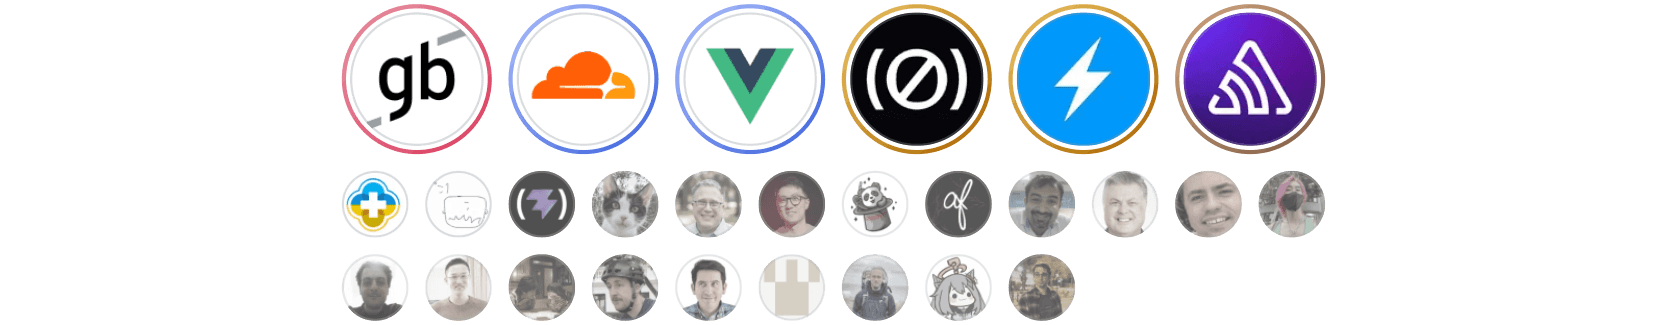
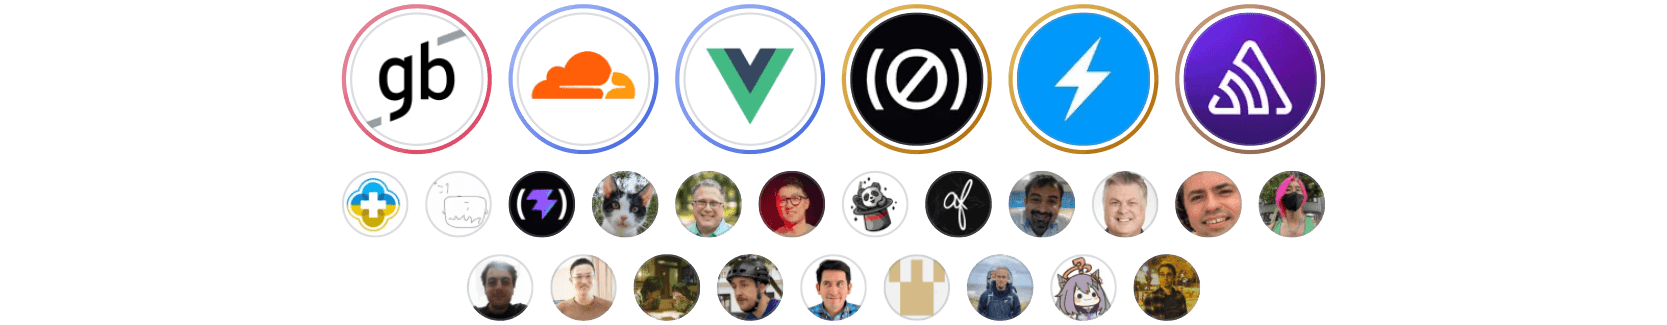
feat: split rows by tile size and centre them
Change how the sponsor grid flows into rows:

- a change of tile size always starts a new row, so big and small
  tiles never share one
- a row that is not full is centred
- rows get a fixed width of 12 cells, which is 6 big tiles or 12 small
  ones, set with `columns` in the config; without it the width is still
  picked to fit the list
- `past` takes a new 'none' value that draws past sponsors like
  everyone else, and the config now uses it

Changed region(s): [[0.1872, 0.7692, 0.7175, 0.9846], [0.2807, 0.5231, 0.811, 0.7385]]

diff --git a/renderer.ts b/renderer.ts
@@ -6,9 +6,9 @@ import { partitionTiers, resizeImage, svgToWebp } from 'sponsorkit'
 /**
  * Grid renderer for sponsorkit.
  *
- * Every sponsor is a tile on one shared lattice, with no labels and no names. A tier picks how
- * many cells its tiles span and, optionally, a colour. Tiles are packed in tier order, and the
- * column count is chosen so the block comes out as a full rectangle: only the last row runs short.
+ * Every sponsor is a tile, with no labels and no names. A tier picks how big its tiles are and,
+ * optionally, a colour. Tiles flow in rows in tier order. A change of tile size starts a new row,
+ * so big and small tiles never share one, and a row that is not full is centred.
  */
 
 export interface GridTier extends Tier {
@@ -66,6 +66,7 @@ const mutedStyles = {
   smaller: { saturate: 0.35, opacity: 0.75, scale: 0.75 },
   faded: { saturate: 1, opacity: 0.5, scale: 1 },
   grey: { saturate: 0, opacity: 0.6, scale: 1 },
+  none: { saturate: 1, opacity: 1, scale: 1 },
 } satisfies Record<string, Required<MutedStyle>>
 
 export interface GridOptions {
@@ -89,7 +90,10 @@ export interface GridOptions {
    * @default 8
    */
   gap?: number
-  /** Use exactly this many columns instead of choosing a count that fits the list. */
+  /**
+   * Make rows this many cells wide instead of choosing a width that fits the list.
+   * A tile takes as many cells as its tier's `span`.
+   */
   columns?: number
   /**
    * Corner radius: `'round'` for circles, or a number of px applied to every tile whatever its size.
@@ -104,7 +108,8 @@ export interface GridOptions {
    */
   marker?: 'ring' | 'frame' | 'none'
   /**
-   * How `muted` tiers are toned down: a preset, or your own values.
+   * How `muted` tiers are toned down: a preset, your own values, or `'none'` to draw them
+   * like everyone else.
    *
    * @default 'soft'
    */
@@ -121,52 +126,41 @@ const escape = (s: string) => s.replace(/&/g, '&amp;').replace(/</g, '&lt;').rep
 const n = (v: number) => +v.toFixed(2)
 
 /**
- * Place square tiles on a grid `cols` wide, first fit in reading order, and return each with its cell.
- * A tile of span s only starts on multiples of s, so small tiles always nest cleanly beside big ones.
+ * Break tiles into rows at most `cols` cells wide, keeping their order. A change of tile size
+ * always starts a new row, so big and small tiles never share one.
  */
-function pack<T extends { span: number }>(tiles: T[], cols: number) {
-  const grid: Uint8Array[] = []
-  const cells = (r: number) => grid[r] ??= new Uint8Array(cols)
-  const from: Record<number, number> = {}
-  const placed: (T & { col: number, row: number })[] = []
+function intoRows<T extends { span: number }>(tiles: T[], cols: number) {
+  const rows: { span: number, tiles: T[] }[] = []
   for (const tile of tiles) {
-    const s = tile.span
-    for (let r = from[s] ?? 0, done = false; !done; r += s) {
-      for (let c = 0; c + s <= cols && !done; c += s) {
-        let free = true
-        for (let i = 0; i < s && free; i++) {
-          for (let j = 0; j < s && free; j++)
-            free = !cells(r + i)[c + j]
-        }
-        if (!free)
-          continue
-        for (let i = 0; i < s; i++)
-          cells(r + i).fill(1, c, c + s)
-        placed.push({ ...tile, col: c, row: r })
-        from[s] = r
-        done = true
-      }
-    }
+    const row = rows.at(-1)
+    if (row && row.span === tile.span && (row.tiles.length + 1) * tile.span <= cols)
+      row.tiles.push(tile)
+    else
+      rows.push({ span: tile.span, tiles: [tile] })
   }
-  return { placed, rows: grid.length }
+  return rows
 }
 
-/** Pick the column count whose packing wastes the fewest cells, leaning towards a wide, README-shaped block. */
+/** Pick the row width, in cells, that leaves the fewest cells empty, leaning towards a wide, README-shaped block. */
 function chooseColumns(tiles: { span: number }[], maxCols: number, pitch: number, gap: number) {
-  const widest = Math.max(2, ...tiles.map(tile => tile.span))
+  // full rows of every size come out equally wide when the width is a multiple of the largest tile
+  const step = Math.max(1, ...tiles.map(tile => tile.span))
   const used = tiles.reduce((sum, tile) => sum + tile.span * tile.span, 0)
+  const heightAt = (cols: number) => intoRows(tiles, cols).reduce((sum, row) => sum + row.span, 0)
+  // the widest rows that fit give the shortest block
+  const shortest = heightAt(Math.max(step, Math.floor(maxCols / step) * step))
   let best: { cols: number, score: number } | undefined
-  for (let cols = widest; cols <= maxCols; cols += 2) {
-    const { rows } = pack(tiles, cols)
-    const ratio = (cols * pitch - gap) / (rows * pitch - gap)
-    // skip tall, narrow blocks while there is still room to widen
-    if (ratio < 1.4 && cols + 2 <= maxCols)
+  for (let cols = step; cols <= maxCols; cols += step) {
+    const height = heightAt(cols)
+    const ratio = (cols * pitch - gap) / (height * pitch - gap)
+    // skip tall, narrow blocks that wider rows would make shorter
+    if (ratio < 1.4 && height > shortest)
       continue
-    const score = (cols * rows - used) / (cols * rows) * 10 + Math.abs(Math.log(ratio / 3))
+    const score = (cols * height - used) / (cols * height) * 10 + Math.abs(Math.log(ratio / 3))
     if (!best || score < best.score)
       best = { cols, score }
   }
-  return best?.cols ?? widest
+  return best?.cols ?? step
 }
 
 /**
@@ -220,11 +214,16 @@ export function gridComposer(options: GridOptions = {}) {
         .sort((a, b) => compareStanding(a, b) || (listed.get(a) ?? 0) - (listed.get(b) ?? 0))
         .map(({ sponsor }) => ({ sponsor, tier: tier as GridTier, span: (tier as GridTier).span ?? 1 })))
     const width = options.width ?? composer.config.width
-    const maxCols = Math.max(2, Math.floor((width - padding * 2 + gap) / pitch / 2) * 2)
-    const { placed, rows } = pack(tiles, columns ?? chooseColumns(tiles, maxCols, pitch, gap))
-    // the image keeps its width, so centre the grid on the columns it actually uses
-    const cols = Math.max(0, ...placed.map(tile => tile.col + tile.span))
-    const left = Math.round((width - (cols * pitch - gap)) / 2)
+    const maxCols = Math.floor((width - padding * 2 + gap) / pitch)
+    const rows = intoRows(tiles, columns ?? chooseColumns(tiles, maxCols, pitch, gap))
+    // the image keeps its width, and every row is centred in it, full or not
+    let bottom = padding
+    const placed = rows.flatMap((row) => {
+      const left = Math.round((width - (row.tiles.length * row.span * pitch - gap)) / 2)
+      const top = bottom
+      bottom += row.span * pitch
+      return row.tiles.map((tile, i) => ({ ...tile, cx: left + i * row.span * pitch, cy: top }))
+    })
 
     const clips = new Map<string, number>()
     // a colour pair is painted through a gradient, defined once however many tiles share it
@@ -237,10 +236,8 @@ export function gridComposer(options: GridOptions = {}) {
       gradients.set(stops, id)
       return `url(#${id})`
     }
-    const drawn = await Promise.all(placed.map(async ({ sponsor, tier, span, col, row }) => {
+    const drawn = await Promise.all(placed.map(async ({ sponsor, tier, span, cx, cy }) => {
       const cell = span * pitch - gap
-      const cx = left + col * pitch
-      const cy = padding + row * pitch
       const color = marker !== 'none' && tier.color ? paint(tier.color) : undefined
       const line = span > 2 ? 3 : 2
       // a ring sits on the cell edge, so the picture steps in to leave room for it
@@ -281,11 +278,13 @@ export function gridComposer(options: GridOptions = {}) {
       return { svg, muted: !!tier.muted }
     }))
 
-    const live = drawn.filter(tile => !tile.muted).map(tile => tile.svg)
-    const muted = drawn.filter(tile => tile.muted).map(tile => tile.svg)
     const fade = tone.saturate < 1
       ? `<filter id="fade" color-interpolation-filters="sRGB"><feColorMatrix type="saturate" values="${tone.saturate}"/></filter>`
       : ''
+    // with nothing to tone down, muted tiers are drawn with everyone else
+    const toned = fade !== '' || tone.opacity < 1
+    const live = drawn.filter(tile => !(toned && tile.muted)).map(tile => tile.svg)
+    const muted = drawn.filter(tile => toned && tile.muted).map(tile => tile.svg)
     const defs = [
       ...Array.from(clips, ([id, r]) => `<clipPath id="${id}" clipPathUnits="objectBoundingBox"><rect width="1" height="1" rx="${r}"/></clipPath>`),
       ...Array.from(gradients, ([stops, id]) => `<linearGradient id="${id}" x2="1" y2="1">${stops}</linearGradient>`),
@@ -298,7 +297,7 @@ export function gridComposer(options: GridOptions = {}) {
 
     // sponsorkit sizes the SVG from these: the width is fixed, the height follows the rows
     composer.config.width = width
-    composer.height = Math.max(1, rows * pitch - gap + padding * 2)
+    composer.height = Math.max(1, bottom - gap + padding)
     composer.config.svgInlineCSS = '.edge{fill:none;stroke:#8b949e;stroke-opacity:.32}a{cursor:pointer}'
   }
 }

diff --git a/sponsor.config.ts b/sponsor.config.ts
@@ -20,9 +20,10 @@ export default defineConfig({
   tiers,
   customComposer: gridComposer({
     radius: 'round',
-    past: 'soft',
+    past: 'none',
     marker: 'ring',
     pitch: 40,
+    columns: 12, // a row holds 6 big tiles or 12 small ones, however many there are
   }),
   // thanks.dev is not built into sponsorkit, so the providers are listed rather than detected
   providers: ['github', 'opencollective', thanksDev],
